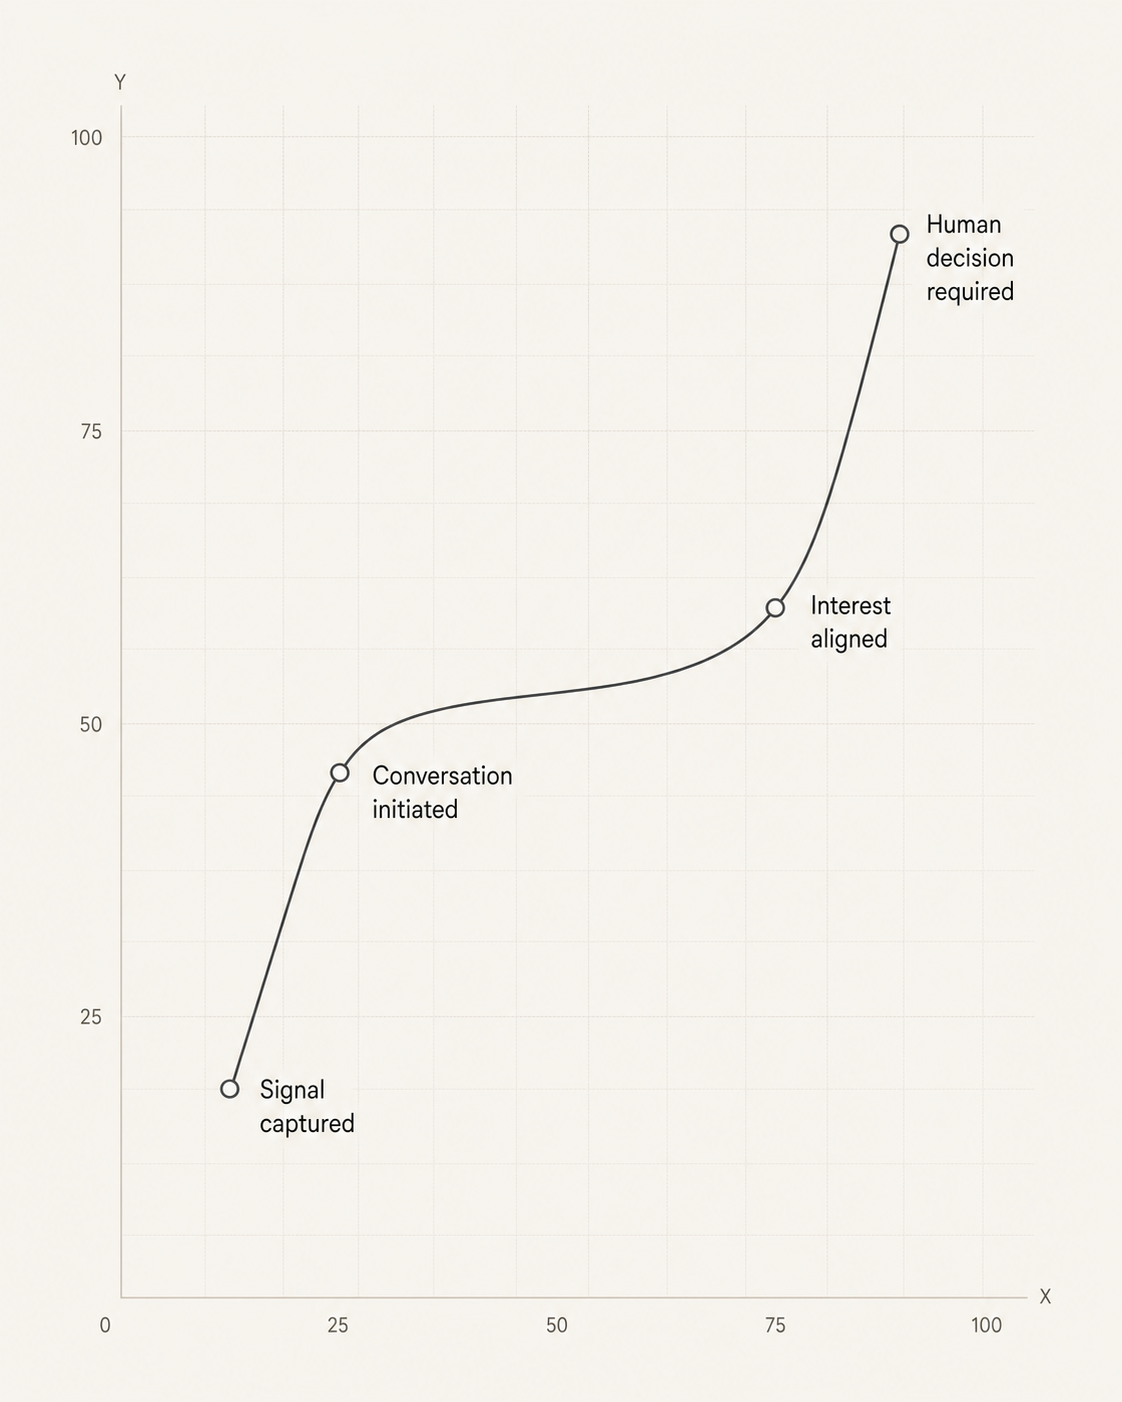
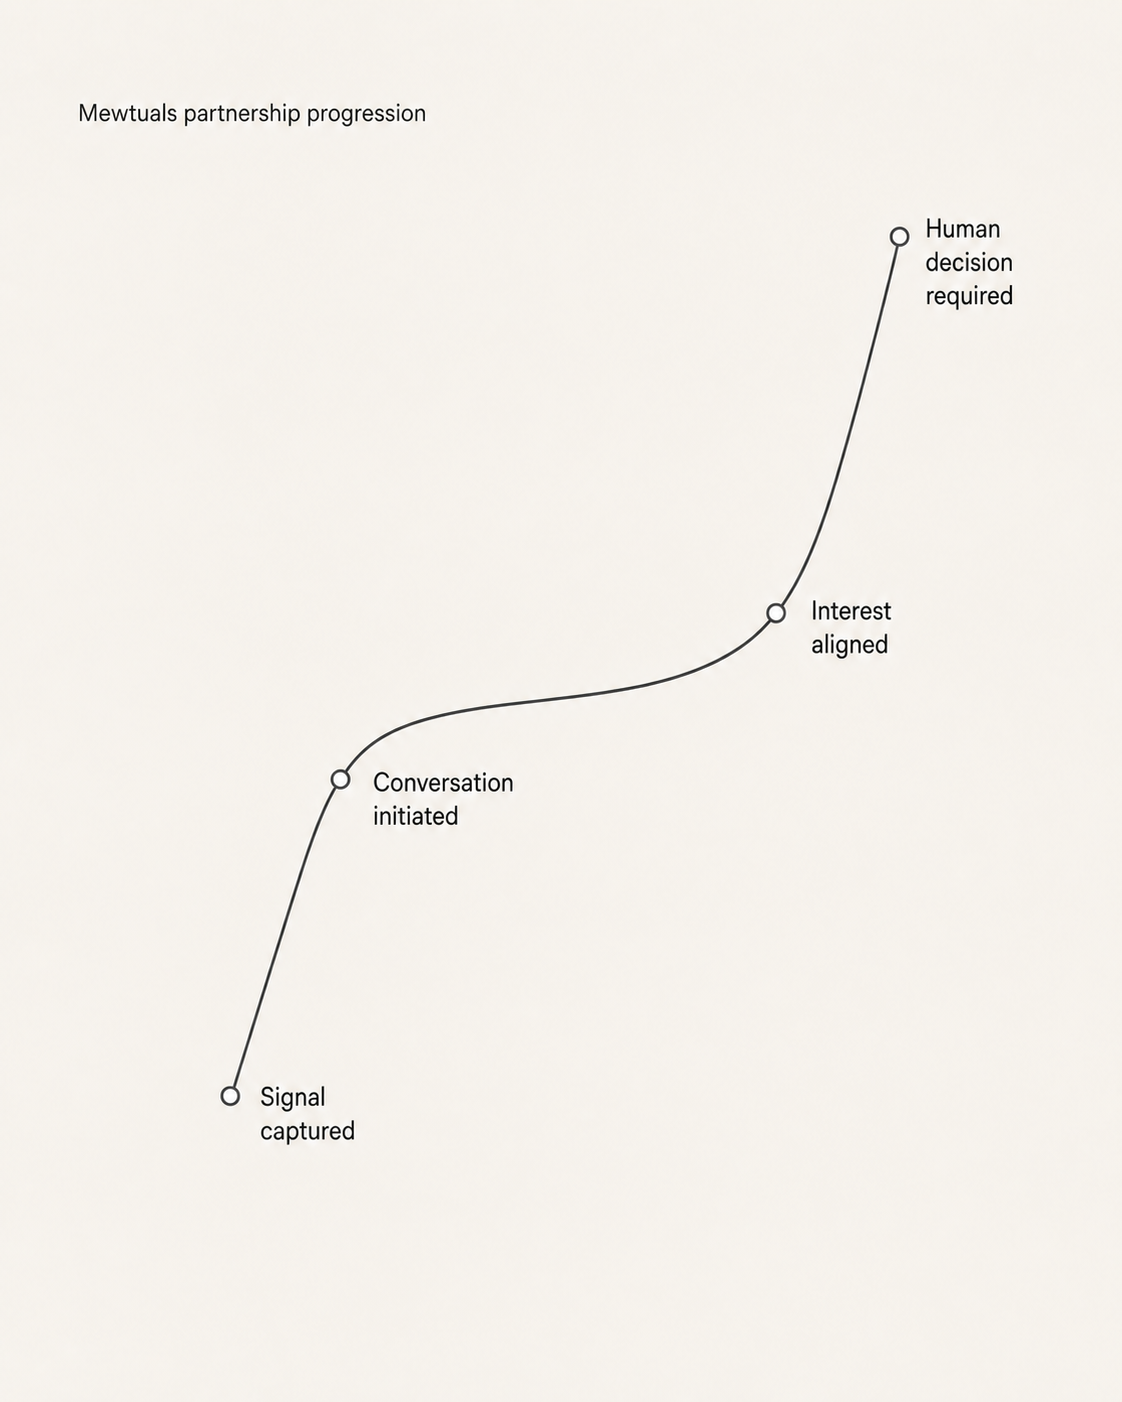
fix: make hero progression graph qualitative

diff --git a/app/components/Hero.tsx b/app/components/Hero.tsx
@@ -26,13 +26,25 @@ export function Hero() {
 
       <figure className="hero-graph">
         {/* Vinext's local image optimizer is not available in this Sites runtime. */}
-        {/* eslint-disable-next-line @next/next/no-img-element */}
-        <img
-          alt="Opportunity movement from signal captured through conversation and aligned interest to a human decision"
-          height="1402"
-          src="/hero-opportunity-graph.png"
-          width="1122"
-        />
+        <picture>
+          <source
+            media="(max-width: 640px)"
+            srcSet="/hero-opportunity-graph-mobile.webp"
+            type="image/webp"
+          />
+          <source
+            media="(max-width: 640px)"
+            srcSet="/hero-opportunity-graph-mobile.png"
+            type="image/png"
+          />
+          <source srcSet="/hero-opportunity-graph.webp" type="image/webp" />
+          <img
+            alt="Qualitative Mewtuals partnership progression: Signal captured, Conversation initiated, Interest aligned, and Human decision required."
+            height="1402"
+            src="/hero-opportunity-graph.png"
+            width="1122"
+          />
+        </picture>
       </figure>
     </section>
   );

diff --git a/docs/superpowers/plans/2026-07-15-mewtuals-v3-qualitative-graph.md b/docs/superpowers/plans/2026-07-15-mewtuals-v3-qualitative-graph.md
@@ -1,0 +1,157 @@
+# Mewtuals v3 Qualitative Hero Graph Implementation Plan
+
+> **For agentic workers:** REQUIRED SUB-SKILL: Use superpowers:subagent-driven-development (recommended) or superpowers:executing-plans to implement this plan task-by-task. Steps use checkbox (`- [ ]`) syntax for tracking.
+
+**Goal:** Replace the hero graph's unsupported numerical axes with a restrained qualitative Mewtuals partnership progression and preserve v2 as a restorable tag.
+
+**Architecture:** Keep the current `Hero` component and responsive layout stable. Edit the existing desktop raster in place, create a mobile-specific variant with substantially larger embedded text, and serve WebP sources with PNG fallbacks through `<picture>`. Update the server-rendered accessibility contract so the image is explicitly described as qualitative and every stage is named exactly.
+
+**Tech Stack:** Vinext/React, TypeScript, Node test runner, built-in image editing, Playwright CLI, Git tags.
+
+---
+
+### Task 1: Guard the qualitative graph contract
+
+**Files:**
+- Modify: `tests/rendered-html.test.mjs`
+
+- [ ] **Step 1: Confirm version preconditions**
+
+Run:
+
+```bash
+git rev-parse website-v2^{}
+git tag --list website-v3
+git status --short
+```
+
+Expected: `website-v2^{}` resolves to `ccc1124...`, `website-v3` is absent, and `.openai/hosting.json` is the only unrelated modified file.
+
+- [ ] **Step 2: Write the failing render contract**
+
+Require the exact new alternative text and reject the previous text:
+
+```js
+assert.match(
+  html,
+  /alt="Qualitative Mewtuals partnership progression: Signal captured, Conversation initiated, Interest aligned, and Human decision required\."/,
+);
+assert.doesNotMatch(
+  html,
+  /alt="Opportunity movement from signal captured through conversation and aligned interest to a human decision"/,
+);
+```
+
+Also require mobile WebP and PNG sources plus a desktop WebP source, and reject the earlier incomplete qualitative alt text.
+
+- [ ] **Step 3: Run the focused test and verify RED**
+
+Run: `npm run test:render`
+
+Expected: FAIL because the rendered HTML still contains the previous alternative text.
+
+### Task 2: Create the qualitative graph asset
+
+**Files:**
+- Modify: `public/hero-opportunity-graph.png`
+- Create: `public/hero-opportunity-graph.webp`
+- Create: `public/hero-opportunity-graph-mobile.png`
+- Create: `public/hero-opportunity-graph-mobile.webp`
+
+- [ ] **Step 1: Edit the existing raster with the built-in image tool**
+
+Use `public/hero-opportunity-graph.png` as the edit target with this invariant-focused request:
+
+```text
+Use case: precise-object-edit
+Asset type: Mewtuals landing-page hero process graphic
+Primary request: Remove every quantitative chart artifact: X and Y labels, numerical tick labels, axis lines, tick marks, and gridlines. Add the small title "Mewtuals partnership progression" near the top-left. The result is an abstract qualitative process curve, not a measured chart.
+Text (verbatim): "Mewtuals partnership progression", "Signal captured", "Conversation initiated", "Interest aligned", "Human decision required"
+Constraints: Preserve the exact warm paper background, charcoal curve shape, four open-circle markers, stage order, stage wording, typographic restraint, portrait proportions, and whitespace. Keep the four stage labels crisp and legible. Do not add units, scores, legends, percentages, icons, cats, decorations, watermarks, or new stages.
+```
+
+- [ ] **Step 2: Inspect the generated image**
+
+Verify all exact labels, curve invariants, clean background, absence of quantitative artifacts, and overall legibility. Iterate once with a targeted correction if any invariant fails.
+
+- [ ] **Step 3: Replace the project asset in place**
+
+Copy the approved generated PNG to `public/hero-opportunity-graph.png`. Preserve a portrait image with no layout or reference-path change.
+
+- [ ] **Step 4: Create the mobile-specific asset**
+
+Use the approved qualitative graph as the edit target. Increase the embedded title and all four stage labels to approximately twice their desktop size while preserving the exact curve, markers, stage order, text, paper background, portrait proportions, and absence of quantitative artifacts. Inspect the result at mobile display scale and save it as `public/hero-opportunity-graph-mobile.png`.
+
+- [ ] **Step 5: Create efficient delivery sources**
+
+Use the available `cwebp` encoder to create desktop and mobile WebP sources. Keep both PNG files as fallbacks and record each file's dimensions and size.
+
+### Task 3: Update the accessible description
+
+**Files:**
+- Modify: `app/components/Hero.tsx`
+
+- [ ] **Step 1: Change only the image alternative text**
+
+Wrap the image in `<picture>` with mobile WebP and PNG sources at `(max-width: 640px)`, followed by desktop WebP and the existing desktop PNG fallback. Set:
+
+```tsx
+alt="Qualitative Mewtuals partnership progression: Signal captured, Conversation initiated, Interest aligned, and Human decision required."
+```
+
+- [ ] **Step 2: Run the focused test and verify GREEN**
+
+Run: `npm run test:render`
+
+Expected: production build succeeds and the rendered-page test passes.
+
+### Task 4: Verify the complete v3 experience
+
+**Files:**
+- Verify only; no additional scope.
+
+- [ ] **Step 1: Run the automated gate**
+
+Run:
+
+```bash
+npm test
+npm run lint
+git diff --check
+```
+
+Expected: all unit tests and render contract pass, lint exits 0, and no whitespace errors appear.
+
+- [ ] **Step 2: Verify localhost visually**
+
+At `http://localhost:4000/`, capture and inspect the full page at 1440×1100 and 390×844. Confirm the graph is legible, retains the existing curve and stages, and no longer resembles a quantitative chart.
+
+- [ ] **Step 3: Verify runtime health**
+
+Confirm zero browser console errors and HTTP 200 from localhost.
+
+### Task 5: Record website-v3
+
+**Files:**
+- Stage only: `public/hero-opportunity-graph.png`, `public/hero-opportunity-graph.webp`, `public/hero-opportunity-graph-mobile.png`, `public/hero-opportunity-graph-mobile.webp`, `app/components/Hero.tsx`, `tests/rendered-html.test.mjs`, `docs/superpowers/specs/2026-07-15-mewtuals-v3-qualitative-graph-design.md`, `docs/superpowers/plans/2026-07-15-mewtuals-v3-qualitative-graph.md`
+- Exclude: `.openai/hosting.json`
+
+- [ ] **Step 1: Review the final staged scope**
+
+Use path-specific staging. Run `git diff --cached --name-only` and confirm `.openai/hosting.json` is absent.
+
+- [ ] **Step 2: Commit the refinement**
+
+```bash
+git commit -m "fix: make hero progression graph qualitative"
+```
+
+- [ ] **Step 3: Create the immutable v3 tag**
+
+```bash
+git tag website-v3 HEAD
+```
+
+- [ ] **Step 4: Verify tags and localhost**
+
+Confirm `website-v2` still resolves to `ccc1124`, `website-v3` resolves to the new commit, the branch remains `codex/mutuals-landing`, and localhost still returns HTTP 200.

diff --git a/docs/superpowers/specs/2026-07-15-mewtuals-v3-qualitative-graph-design.md b/docs/superpowers/specs/2026-07-15-mewtuals-v3-qualitative-graph-design.md
@@ -16,6 +16,7 @@ The current image presents numbered X and Y axes, ticks, and a chart grid withou
 - Keep the existing warm paper background, charcoal curve, open-circle markers, typography, proportions, and hero placement.
 - Remove the X and Y labels, all numerical tick labels, axis lines, tick marks, and quantitative gridlines.
 - Add the restrained title `Mewtuals partnership progression` inside the graphic.
+- Provide a mobile-specific rendering with substantially larger embedded title and stage-label typography so the same narrative remains legible at phone widths.
 - Preserve the four qualitative stages in order:
   1. `Signal captured`
   2. `Conversation initiated`
@@ -26,15 +27,17 @@ The current image presents numbered X and Y axes, ticks, and a chart grid withou
 
 ## Accessibility
 
-Update the hero image alternative text to: `Qualitative Mewtuals partnership progression from signal captured through conversation and aligned interest to a human decision`.
+Update the hero image alternative text to: `Qualitative Mewtuals partnership progression: Signal captured, Conversation initiated, Interest aligned, and Human decision required.`
 
-The alternative text must explicitly describe the image as qualitative so assistive-technology users are not given a false quantitative interpretation.
+The alternative text must explicitly describe the image as qualitative and name every stage exactly so assistive-technology users receive the complete narrative without false quantitative interpretation.
 
 ## Implementation Boundary
 
-- Modify `public/hero-opportunity-graph.png` in place so the existing responsive layout and asset path remain stable.
-- Modify only the hero image alternative text in `app/components/Hero.tsx`.
-- Extend the rendered-page contract in `tests/rendered-html.test.mjs` to require the qualitative alt text and reject the previous alt text.
+- Modify `public/hero-opportunity-graph.png` in place so the existing desktop responsive layout and fallback path remain stable.
+- Add `public/hero-opportunity-graph-mobile.png` with larger embedded text for viewports up to 640px.
+- Add WebP versions of both desktop and mobile assets to reduce transfer weight while retaining PNG fallbacks.
+- Wrap the existing image in a responsive `<picture>` in `app/components/Hero.tsx`, with mobile WebP/PNG sources, desktop WebP, and desktop PNG fallback.
+- Extend the rendered-page contract in `tests/rendered-html.test.mjs` to require the responsive sources and exact qualitative alt text, and reject both previous alt-text variants.
 - Do not change hero copy, layout, CSS, curve stages, other components, dependencies, or `.openai/hosting.json`.
 
 ## Versioning
